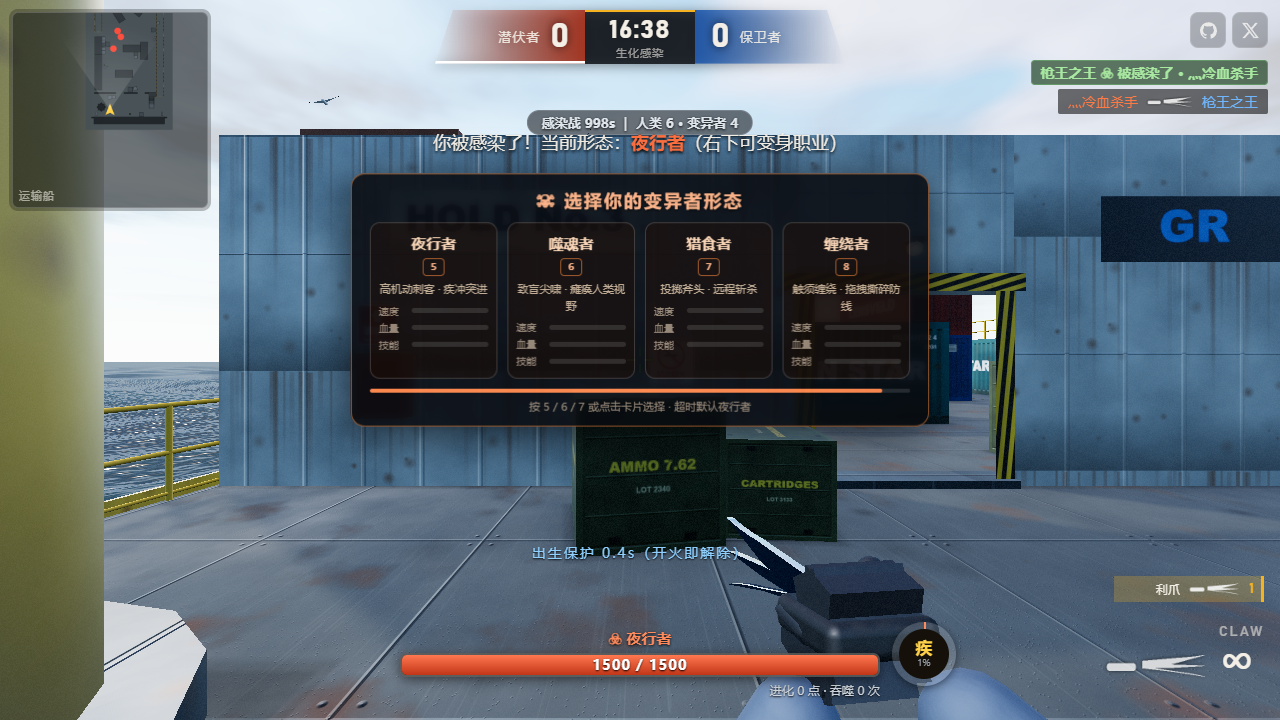
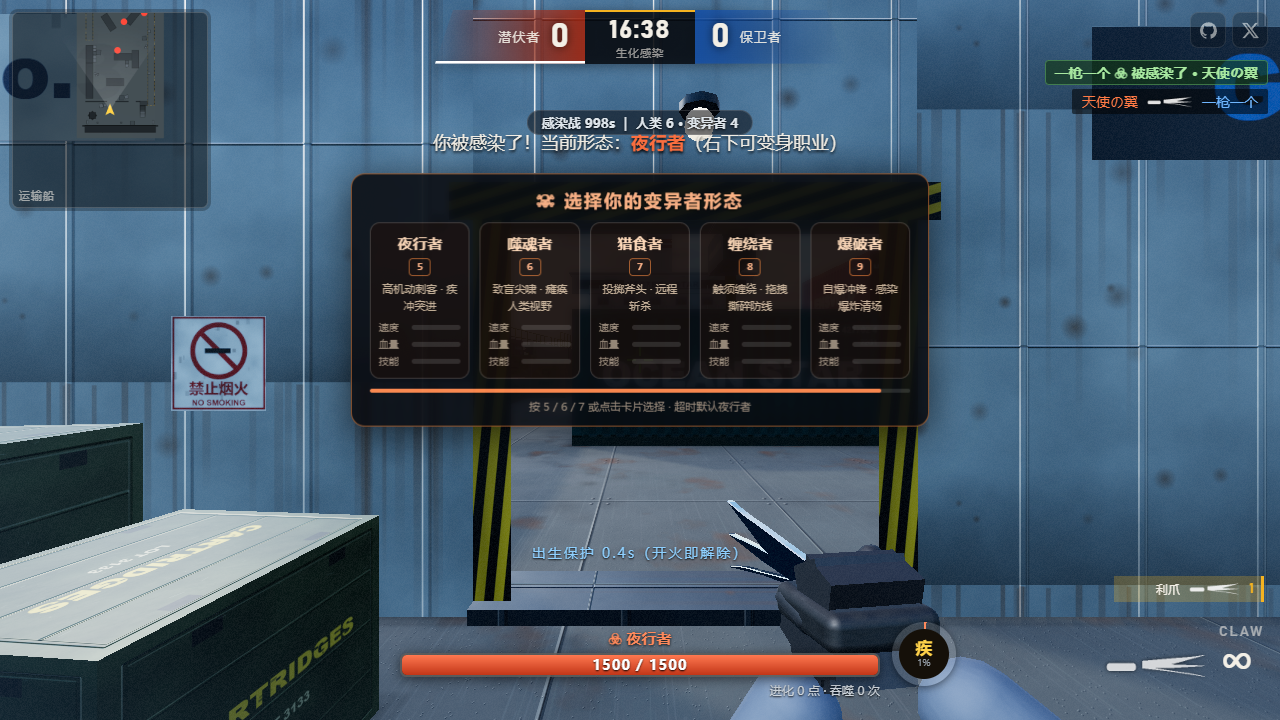
WOZ V13: 新变异者「爆破者」——自爆感染爆炸（原作五变异者集齐）
- config: MutantClass.Bomber(2200HP) + MutantSkill.SelfDestruct（700伤/7m半径/1.2s引信/冲锋加速1.3x）
- integrate: 自爆引信系统——红色脉冲预警球逐渐膨胀、引信期间移速加成冲进人堆、
  爆炸距离衰减伤害（边缘40%）、claw 标签保持击杀感染链、自爆者阵亡走变异者死亡分支
- HUD: 第 5 张职业卡（9 爆破者）+ 快捷按钮 + 帮助键位 5/6/7/8/9
- BOT 随机职业池五职业分布（35/20/17/15/13）
- 测试: probe v13 5 断言（引信点燃/近处感染/远处无伤/自身阵亡）+ 全量回归 v1-v12 + e2e + objectives + smoke 全绿

diff --git a/cf-transport-ship/src/woz/integrate.js b/cf-transport-ship/src/woz/integrate.js
@@ -37,6 +37,7 @@ export class WozManager {
     this.playerClassChosen = false; // 玩家是否已主动选择变异者职业
     this.axes = [];                   // 猎食者投掷斧头抛射物
     this.grabs = [];                  // 缠绕者触须拖拽
+    this.fuses = [];                  // 爆破者自爆引信
   }
 
   // 模式分类：infection 族（感染/复仇/生化）走规则层；对抗/爆破走目标物逻辑
@@ -157,6 +158,7 @@ export class WozManager {
     this.tide = [];
     this.clearAxes();
     this.clearGrabs();
+    this.clearFuses();
     // 全员复活为人类，回 GR 出生点
     this.pendingConvert.clear();
     for (const a of g.actors) {
@@ -197,6 +199,7 @@ export class WozManager {
     if (!g.playing || g.ended) return;
     this.tickAxes(dt);
     this.tickGrabs(dt);
+    this.tickFuses(dt);
     // 购买期结束自动关闭武器商店
     if (this.rules) {
       if (this.rules.phase === 'buy') this._buyOpen = true;
@@ -348,6 +351,57 @@ export class WozManager {
   clearGrabs() {
     for (const gr of this.grabs) this.g.renderer.scene.remove(gr.tent);
     this.grabs = [];
+  }
+
+  // ---- 爆破者自爆（原作技能）：1.2s 引信冲锋 → 感染爆炸 ----
+  armSelfDestruct(a) {
+    const g = this.g;
+    const core = new THREE.Mesh(
+      new THREE.SphereGeometry(0.55, 12, 10),
+      new THREE.MeshBasicMaterial({ color: 0xff3020, transparent: true, opacity: 0.55, depthWrite: false }),
+    );
+    g.renderer.scene.add(core);
+    this.fuses.push({ live: true, a, t: WOZ.selfDestructFuse, core });
+    if (a.isPlayer) g.hud.toast('<b style="color:#ff5040">自爆引信已点燃！</b>冲进人堆！', 1.5);
+    else g.hud.eventFeed(`${a.name} 点燃了自爆引信！`, 'avg');
+  }
+
+  tickFuses(dt) {
+    const g = this.g;
+    for (const f of this.fuses) {
+      if (!f.live) continue;
+      f.t -= dt;
+      if (!f.a.alive) { f.live = false; continue; }
+      // 冲锋加速 + 红色脉冲预警
+      f.a.speedMul = (f.a.speedMul || 1) * WOZ.selfDestructSpeed;
+      f.core.position.copy(f.a.pos); f.core.position.y += 1.2;
+      const pulse = 0.35 + 0.45 * Math.abs(Math.sin(f.t * 18));
+      f.core.material.opacity = pulse;
+      f.core.scale.setScalar(1 + (WOZ.selfDestructFuse - f.t) * 0.8);
+      if (f.t <= 0) {
+        f.live = false;
+        const c = f.a.pos.clone(); c.y += 1;
+        g.fx.explosion(c);
+        g.fx.shake = 2.2;
+        const owner = f.a;
+        for (const v of g.actors) {
+          if (!v.alive || v === owner || v.team === owner.team || v.wozOut) continue;
+          const d = owner.pos.distanceTo(v.pos);
+          if (d > WOZ.selfDestructRadius) continue;
+          const dmg = WOZ.selfDestructDamage * (1 - (d / WOZ.selfDestructRadius) * 0.6);
+          const dir = new THREE.Vector3(v.pos.x - owner.pos.x, 0, v.pos.z - owner.pos.z).normalize();
+          g.damage(v, owner, dmg, 'chest', 'claw', dir, false); // claw 标签 → 击杀感染链
+        }
+        g.damage(owner, null, 99999, 'chest', 'claw', new THREE.Vector3(0, 1, 0), false); // 自爆阵亡
+      }
+    }
+    for (const f of this.fuses) if (!f.live) g.renderer.scene.remove(f.core);
+    this.fuses = this.fuses.filter((f) => f.live);
+  }
+
+  clearFuses() {
+    for (const f of this.fuses) this.g.renderer.scene.remove(f.core);
+    this.fuses = [];
   }
 
   tickInfection(dt) {
@@ -756,8 +810,8 @@ export class WozManager {
     if (p.consumePressed('KeyG')) {
       if (!rules.tryUseSkill(p.id)) g.hud.toast(`技能充能 ${(st.skillCharge * 100) | 0}%`, 1);
     }
-    // 5/6/7/8 子体变身
-    for (const [code, cls] of [['Digit5', MutantClass.Nightrunner], ['Digit6', MutantClass.Souleater], ['Digit7', MutantClass.Devourer], ['Digit8', MutantClass.Tangler]]) {
+    // 5/6/7/8/9 子体变身
+    for (const [code, cls] of [['Digit5', MutantClass.Nightrunner], ['Digit6', MutantClass.Souleater], ['Digit7', MutantClass.Devourer], ['Digit8', MutantClass.Tangler], ['Digit9', MutantClass.Bomber]]) {
       if (p.consumePressed(code) && rules.setMutantClass(p.id, cls)) this.playerClassChosen = true;
     }
   }
@@ -969,7 +1023,7 @@ export class WozManager {
     if (!a || a.isPlayer || this.rules.state(victimId).isMother) return;
     this._autoCls = victimId;
     const r = Math.random();
-    const changed = this.rules.setMutantClass(victimId, r < 0.4 ? MutantClass.Nightrunner : r < 0.65 ? MutantClass.Souleater : r < 0.85 ? MutantClass.Devourer : MutantClass.Tangler);
+    const changed = this.rules.setMutantClass(victimId, r < 0.35 ? MutantClass.Nightrunner : r < 0.55 ? MutantClass.Souleater : r < 0.72 ? MutantClass.Devourer : r < 0.87 ? MutantClass.Tangler : MutantClass.Bomber);
     if (!changed) this._autoCls = -1; // 职业未变（默认夜行者）时清除抑制标记，避免吃掉后续手动播报
   }
 
@@ -1000,6 +1054,8 @@ export class WozManager {
       this.throwAxe(a);
     } else if (skill === 'entangle') {
       this.fireEntangle(a);
+    } else if (skill === 'selfDestruct') {
+      this.armSelfDestruct(a);
     }
   }
 

diff --git a/cf-transport-ship/src/hud.js b/cf-transport-ship/src/hud.js
@@ -35,7 +35,7 @@ export class HUD {
   // ---------- 模式机制说明 ----------
   static MODE_INFO = {
     tdm: { name: '团队竞技', desc: '经典 PVP 对战。<b>人类内战</b>：潜伏者 vs 保卫者，用枪械一决高下。率先达到目标击杀数或时间结束时比分领先的队伍获胜。阵亡 4 秒后在后方出生点复活。' },
-    infection: { name: '生化感染', desc: '购买期结束后随机 <b>2 名玩家变为母体变异者</b>（3000HP）。变异者用利爪攻击人类，人类<b>阵亡即被感染</b>并转化为变异者。任意人类存活到 180 秒战斗期结束或全歼变异者=人类胜；全员感染=变异者胜。变异者按 <b>5/6/7/8</b> 变身夜行者/噬魂者/猎食者/缠绕者，<b>E</b> 吞噬尸体回血进化，<b>G</b> 释放技能。' },
+    infection: { name: '生化感染', desc: '购买期结束后随机 <b>2 名玩家变为母体变异者</b>（3000HP）。变异者用利爪攻击人类，人类<b>阵亡即被感染</b>并转化为变异者。任意人类存活到 180 秒战斗期结束或全歼变异者=人类胜；全员感染=变异者胜。变异者按 <b>5/6/7/8/9</b> 变身夜行者/噬魂者/猎食者/缠绕者/爆破者，<b>E</b> 吞噬尸体回血进化，<b>G</b> 释放技能。' },
     revenge: { name: '生化复仇', desc: '感染规则 + 双向进化：变异者可<b>复活并再变异</b>（HP×1.25/伤害×1.2）；人类濒败（存活≤2 人或剩余≤45 秒）时伤害最高者觉醒为<b>生化复仇者</b>——1500HP 电锯，轻击 500/重击必杀，被其击杀的变异者无法复活。最后 60 秒降临尸潮。' },
     bio: { name: '生化模式', desc: '经典感染变体：地图上持续刷新 <b>AI 变异爬行者</b>（300HP），击杀它们会掉落<b>医疗包/弹药箱/生化能量</b>（拾取后技能充满）三种补给。其余规则与生化感染一致。' },
     confront: { name: '生化对抗', desc: '人类攻方 vs 变异者守方。地图上有 <b>A/B/C 三个战术据点</b>：站入据点内人数占优即可推进占领进度（双方在场则争夺冻结）。<b>占领全部据点=人类胜</b>；守到时间耗尽=变异者胜。守卫变异者会分区驻守。双方阵亡后可复活。' },
@@ -151,7 +151,7 @@ export class HUD {
       '<kbd>W A S D</kbd> 移动 · <kbd>Shift</kbd> 静步 · <kbd>空格</kbd> 跳 · <kbd>C</kbd> 蹲',
       '<kbd>左键</kbd> 开火 · <kbd>右键</kbd> 开镜/重击 · <kbd>R</kbd> 换弹 · <kbd>B</kbd> 武器商店',
       '人类：<kbd>E</kbd> 拾取地面武器 / 按住安放核弹',
-      '变异者：<kbd>E</kbd> 吞噬尸体回血 · <kbd>G</kbd> 释放职业技能 · <kbd>5/6/7/8</kbd> 切换形态',
+      '变异者：<kbd>E</kbd> 吞噬尸体回血 · <kbd>G</kbd> 释放职业技能 · <kbd>5/6/7/8/9</kbd> 切换形态',
       '死亡后：<kbd>空格</kbd> 切换 自由 / 队友第一人称 / 队友第三人称 观战',
       '<kbd>Tab</kbd> 计分板 · <kbd>H</kbd> 帮助 · <kbd>Esc</kbd> 暂停',
     ].map((s) => `<div>${s}</div>`).join('');

diff --git a/cf-transport-ship/src/woz/config.js b/cf-transport-ship/src/woz/config.js
@@ -71,6 +71,11 @@ export const WOZ = {
   entangleDamage: 60,
   entangleRootTime: 1.2,
   entangleDragSpeed: 9,
+  bomberHp: 2200,           // 爆破者：自爆冲锋
+  selfDestructDamage: 700,
+  selfDestructRadius: 7,
+  selfDestructFuse: 1.2,
+  selfDestructSpeed: 1.3,   // 引爆冲锋期间移速加成
 };
 
 // ---- 生化对抗：人类攻方占领战术据点，变异者守方 ----
@@ -120,6 +125,7 @@ export const MutantClass = {
   Souleater: 'souleater',
   Devourer: 'devourer',
   Tangler: 'tangler',
+  Bomber: 'bomber',
 };
 
 export const MutantSkill = {
@@ -130,6 +136,7 @@ export const MutantSkill = {
   Harden: 'harden',
   AxeThrow: 'axeThrow',
   Entangle: 'entangle',
+  SelfDestruct: 'selfDestruct',
 };
 
 export const CLASS_LABEL = {
@@ -138,6 +145,7 @@ export const CLASS_LABEL = {
   [MutantClass.Souleater]: '噬魂者',
   [MutantClass.Devourer]: '猎食者',
   [MutantClass.Tangler]: '缠绕者',
+  [MutantClass.Bomber]: '爆破者',
 };
 
 export const SKILL_LABEL = {
@@ -147,6 +155,7 @@ export const SKILL_LABEL = {
   [MutantSkill.Harden]: '硬化',
   [MutantSkill.AxeThrow]: '投掷斧头',
   [MutantSkill.Entangle]: '缠绕',
+  [MutantSkill.SelfDestruct]: '自爆',
 };
 
 export function skillOf(cls) {
@@ -155,6 +164,7 @@ export function skillOf(cls) {
   if (cls === MutantClass.Souleater) return MutantSkill.BlindWail;
   if (cls === MutantClass.Devourer) return MutantSkill.AxeThrow;
   if (cls === MutantClass.Tangler) return MutantSkill.Entangle;
+  if (cls === MutantClass.Bomber) return MutantSkill.SelfDestruct;
   return MutantSkill.None;
 }
 
@@ -162,6 +172,6 @@ export function skillDuration(cls) {
   if (cls === MutantClass.Mother) return 5;
   if (cls === MutantClass.Nightrunner) return WOZ.dashDuration;
   if (cls === MutantClass.Souleater) return WOZ.blindWailDuration;
-  if (cls === MutantClass.Devourer || cls === MutantClass.Tangler) return 0.3; // 瞬时技能，短窗口防连发
+  if (cls === MutantClass.Devourer || cls === MutantClass.Tangler || cls === MutantClass.Bomber) return 0.3; // 瞬时技能，短窗口防连发
   return 0;
 }

diff --git a/cf-transport-ship/src/woz/hud.js b/cf-transport-ship/src/woz/hud.js
@@ -7,6 +7,7 @@ const CLASS_PICK = [
   { c: 'souleater', key: '6', name: '噬魂者', desc: '致盲尖啸 · 瘫痪人类视野', sp: 3, hp: 3, sk: 5 },
   { c: 'devourer', key: '7', name: '猎食者', desc: '投掷斧头 · 远程斩杀', sp: 2, hp: 4, sk: 4 },
   { c: 'tangler', key: '8', name: '缠绕者', desc: '触须缠绕 · 拖拽撕碎防线', sp: 3, hp: 4, sk: 5 },
+  { c: 'bomber', key: '9', name: '爆破者', desc: '自爆冲锋 · 感染爆炸清场', sp: 3, hp: 5, sk: 5 },
 ];
 const statRow = (label, v) => `<div class="stat"><span>${label}</span><i><b style="width:${v * 20}%"></b></i></div>`;
 
@@ -247,6 +248,7 @@ export class WozHud {
         <button data-c="souleater">[6] 噬魂者</button>
         <button data-c="devourer">[7] 猎食者</button>
         <button data-c="tangler">[8] 缠绕者</button>
+        <button data-c="bomber">[9] 爆破者</button>
       `;
       this.classBtns.addEventListener('click', (e) => {
         const c = e.target?.dataset?.c;

diff --git a/cf-transport-ship/src/woz/rules.js b/cf-transport-ship/src/woz/rules.js
@@ -192,6 +192,7 @@ export class WozRules {
     if (p.cls === MutantClass.Mother) return WOZ.motherHp;
     if (p.cls === MutantClass.Devourer) return WOZ.devourerHp;
     if (p.cls === MutantClass.Tangler) return WOZ.tanglerHp;
+    if (p.cls === MutantClass.Bomber) return WOZ.bomberHp;
     return WOZ.childHp;
   }
 
